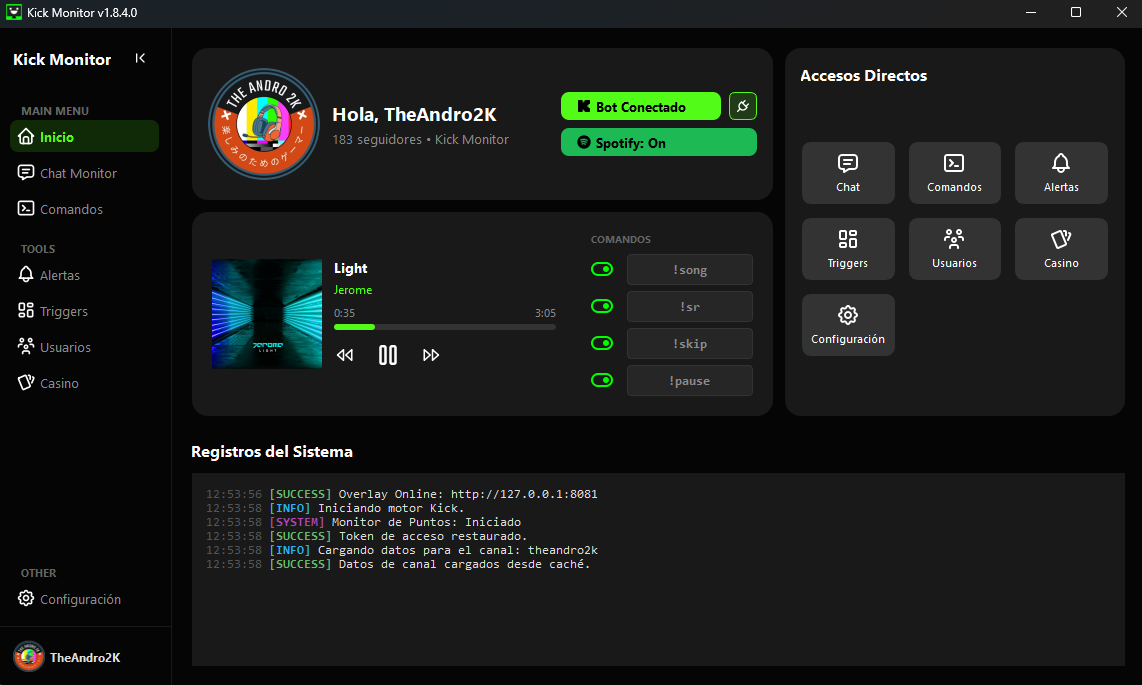
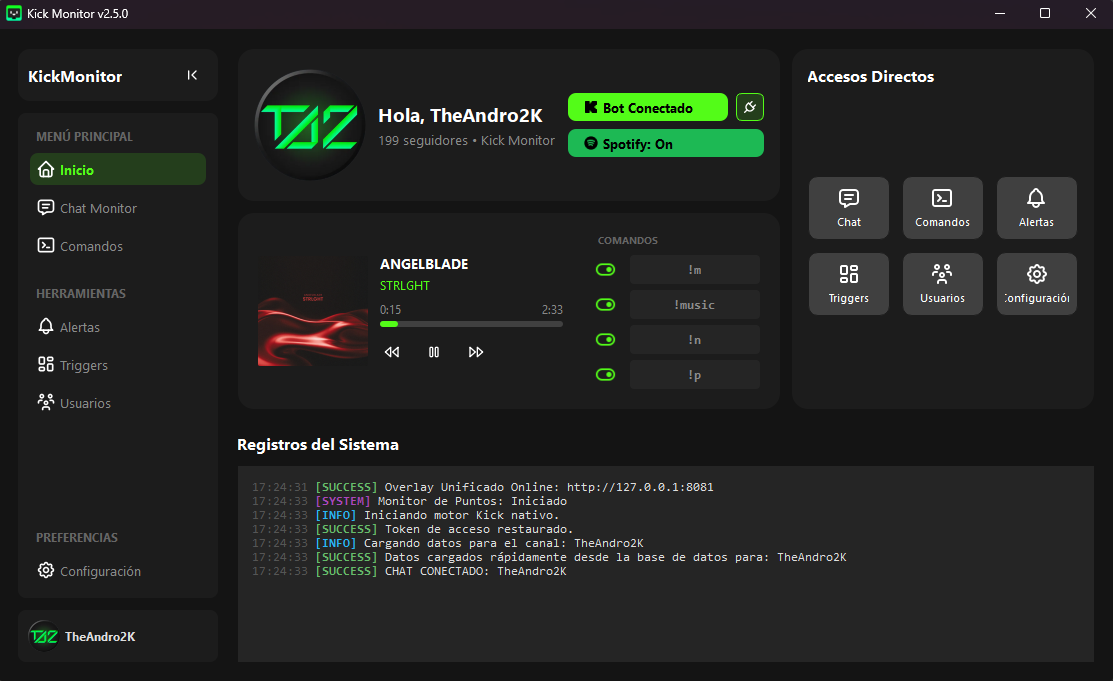
feat: Actualizar imágenes en la documentación y eliminar captura de pantalla de economía y casino

diff --git a/README.md b/README.md
@@ -5,14 +5,14 @@
 
   <p>
     <a href="https://github.com/Andro2k/KickMonitor/releases/latest">
-      <img src="https://img.shields.io/github/v/release/Andro2k/KickMonitor?style=for-the-badge&color=10BB10&labelColor=191919" alt="Latest Release" />
+      <img src="https://img.shields.io/github/v/release/Andro2k/KickMonitor?style=for-the-badge&logo=kick&color=10BB10&labelColor=191919" alt="Latest Release" height="35"/>
     </a>
-    <img src="https://img.shields.io/badge/Python-3.10+-3776AB?style=for-the-badge&logo=python&logoColor=white" alt="Python Version" />
-    <img src="https://img.shields.io/badge/GUI-PyQt6-41CD52?style=for-the-badge&logo=qt&logoColor=white" alt="PyQt6" />
-    <img src="https://img.shields.io/github/license/Andro2k/KickMonitor?style=for-the-badge&color=blue" alt="License" />
+    <img src="https://img.shields.io/badge/Python-3.10+-3776AB?style=for-the-badge&logo=python&logoColor=blue&labelColor=191919" alt="Python Version" height="35"/>
+    <img src="https://img.shields.io/badge/GUI-PyQt6-41CD52?style=for-the-badge&logo=qt&logoColor=celeste&labelColor=191919" alt="PyQt6" height="35"/>
+    <img src="https://img.shields.io/github/license/Andro2k/KickMonitor?style=for-the-badge&color=blue&labelColor=191919" alt="License" height="35"/>
   </p>
   <a href="https://github.com/Andro2k/KickMonitor/releases/latest">
-    <img src="https://img.shields.io/badge/DESCARGA_LA_ÚLTIMA_VERSIÓN_PARA_WINDOWS-10BB10?style=flat&color=green" alt="Descargar Última Versión" height="35">
+    <img src="https://img.shields.io/badge/DESCARGA_LA_ÚLTIMA_VERSIÓN-ffffff?style=flat&color=#0FFE27" alt="Descargar Última Versión" height="64">
   </a>
 </div>
 
@@ -45,19 +45,15 @@ Servidores web internos ultraligeros que transmiten directamente a tus fuentes d
 </div>
 
 ### Chat Bot y Moderación Automática
-* **Voces IA (Edge-TTS):** Text-to-Speech de altísima calidad para leer los mensajes del chat en vivo con acentos realistas.
-* **Comandos Personalizados:** Crea respuestas dinámicas usando variables (`{user}`, `{points}`, `{random}`, etc.).
-* **Filtros Inteligentes:** Píldoras de etiquetas interactivas (Tag Pills) para ignorar comandos de bots o silenciar usuarios molestos.
-* **Timers:** Programa mensajes recurrentes para promocionar tus redes o servidor de Discord.
+* **Voces IA (Edge-TTS):** Text-to-Speech de altísima calidad para leer los mensajes del chat en vivo con acentos realistas. Gestión unificada en un solo panel de control.
+* **Comandos Avanzados y Alias:** Crea respuestas dinámicas, asigna hasta 5 nombres (Alias) diferentes a un mismo comando y cóbrale puntos a los usuarios por utilizarlos.
+* **Variables Mágicas:** Respuestas interactivas con variables en tiempo real como `{followers}`, azar como `{8ball}`, `{coin}`, `{dice}`, y tiempo `{time}`, `{date}`.
+* **Filtros Inteligentes:** Píldoras de etiquetas interactivas (Dynamic Tag Pills) para ignorar comandos de bots o silenciar usuarios molestos, autocompletando guiones y prefijos.
+* **Protección API:** Límite inteligente de 500 caracteres para evitar desconexiones por spam en el chat de Kick.
 
 ### Economía, Puntos y Casino
 * **Sistema de Lealtad:** Otorga puntos automáticamente a los espectadores activos por cada mensaje o por tiempo de visualización.
-* **Minijuegos Integrados:** Tragamonedas (`!slots`), Ruleta (`!roulette`) y Carta Alta (`!cartas`).
 * **Sincronización Bidireccional:** Pausar, silenciar o banear usuarios desde la tabla de base de datos se refleja inmediatamente en el motor de lectura de voz y en la pantalla de OBS.
-
-<div align="center">
-  <img src="screenshots/economy_casino.png" alt="Gestión de Puntos y Casino" width="800"/>
-</div>
 
 ---
 
@@ -68,7 +64,7 @@ Servidores web internos ultraligeros que transmiten directamente a tus fuentes d
 1. Haz clic en el gran botón verde de arriba o ve a la pestaña de **[Lanzamientos (Releases)](https://github.com/Andro2k/KickMonitor/releases)**.
 2. Descarga el ejecutable `KickMonitor_Setup_vX.X.X.exe`.
 3. Instala la aplicación (creará un acceso directo en tu escritorio).
-4. La aplicación incluye un **Actualizador Automático**, por lo que siempre tendrás las últimas novedades sin tener que volver a descargar instaladores.
+4. La aplicación incluye un **Actualizador Automático** inteligente, por lo que siempre tendrás las últimas novedades sin tener que volver a descargar instaladores.
 
 ### Para Desarrolladores (Código Fuente)
 
@@ -85,13 +81,14 @@ python -m venv venv
 pip install -r requirements.txt
 # 4. Ejecutar la aplicación
 python main.py
+
 ```
 
 ## Configuración Básica
 
 Para conectar el Bot a tu canal de Kick, ve a la pestaña **Ajustes** dentro de la app:
 
-* **Kick OAuth:** Simplemente haz clic en "Conectar Bot" desde el Dashboard, se abrirá tu navegador para autorizar la conexión de forma segura (sin necesidad de contraseñas).
+* **Kick OAuth:** Simplemente haz clic en "Conectar Bot" desde el Dashboard, se abrirá tu navegador para autorizar la conexión de forma segura (sin necesidad de contraseñas). El Dashboard se actualizará en tiempo real con tu avatar.
 * **Spotify (Opcional):** Crea una app en *Spotify for Developers*, obtén tu Client ID y Client Secret para mostrar la música actual en tu stream.
 * **OBS Studio:** Añade fuentes de navegador apuntando a `http://localhost:6001/chat` y `http://localhost:6002/alerts`. ¡Usa los botones "Copiar URL" dentro de KickMonitor para facilitar el proceso!
 
@@ -100,9 +97,9 @@ Para conectar el Bot a tu canal de Kick, ve a la pestaña **Ajustes** dentro de 
 ## Stack Tecnológico
 
 * **Core & Backend:** Python 3.12.10, `asyncio`
-* **Interfaz Gráfica (GUI):** PyQt6
+* **Interfaz Gráfica (GUI):** PyQt6 (Ventanas modales Frameless, Draggables y animaciones por QPropertyAnimation).
 * **WebSockets & Scraping:** `aiohttp`, `Pusher`, `cloudscraper`
-* **Base de Datos:** SQLite (Sincronización segura con QMutexLocker)
+* **Base de Datos:** SQLite con auto-mantenimiento de espacio (VACUUM) y sincronización segura con QMutexLocker.
 * **Texto a Voz (TTS):** `edge-tts`, `pyttsx3`, `pygame`
 * **Empaquetado:** PyInstaller y compilador Inno Setup 6
 
@@ -114,9 +111,6 @@ Este proyecto se distribuye bajo la licencia **MIT**. Consulte el archivo `LICEN
 
 <div align="center">
 
-
-
-
-
 <sub>Desarrollado con 💚 por <strong>TheAndro2K</strong></sub>
+
 </div>
